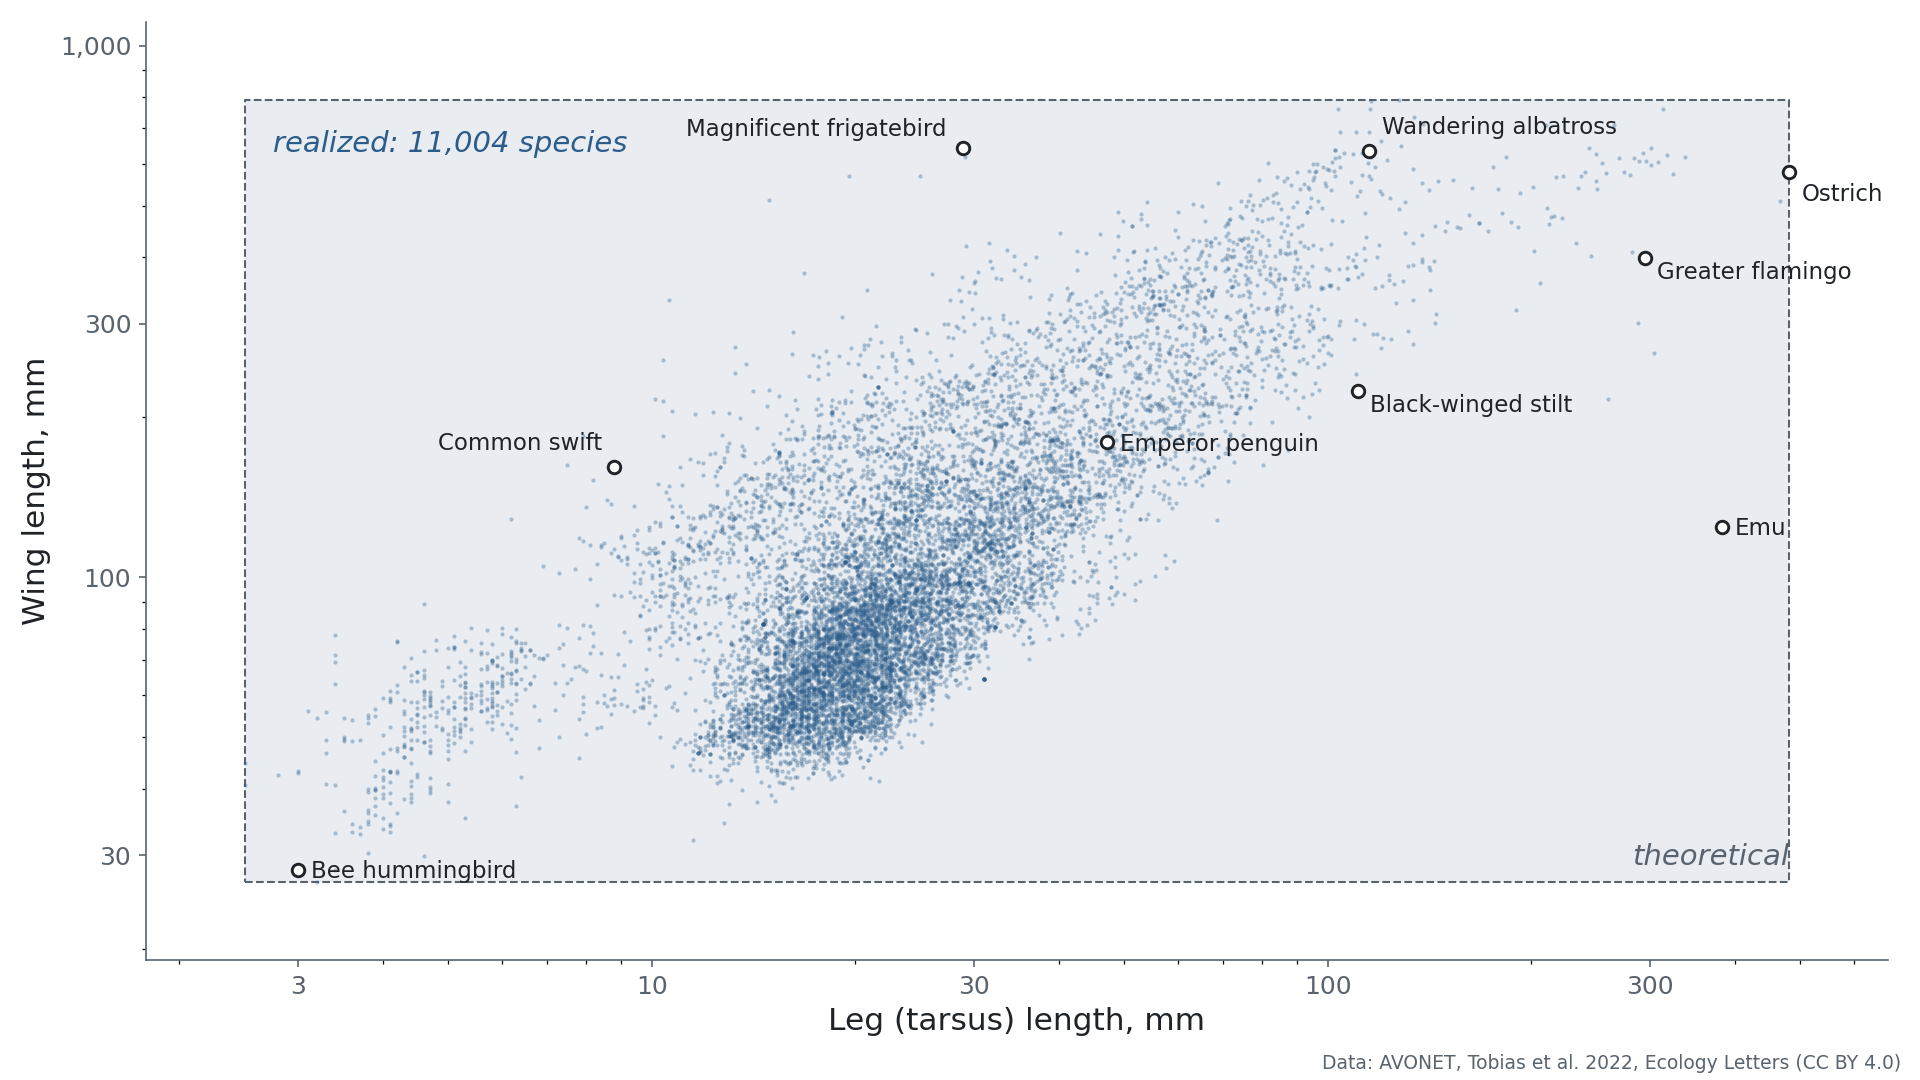
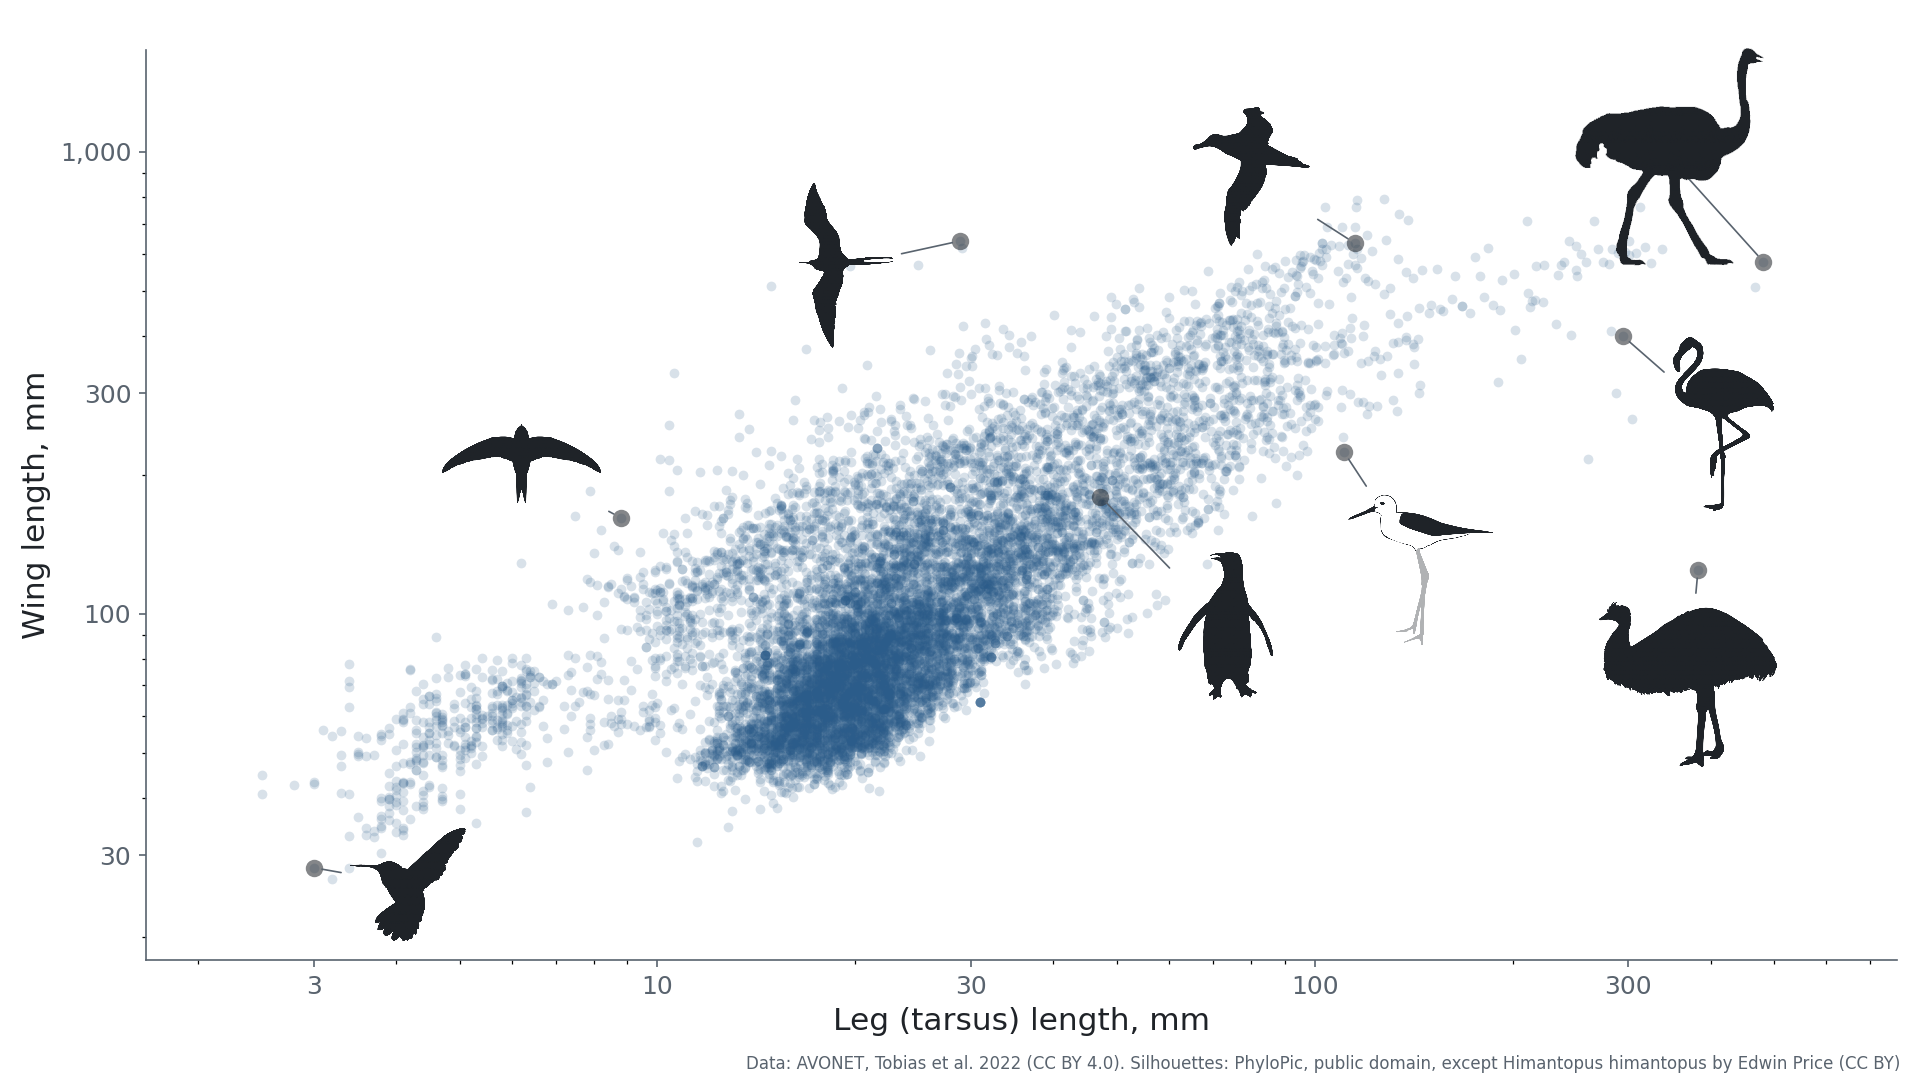
Bird morphospace: PhyloPic silhouettes in place of labels; no box; larger translucent points

diff --git a/scripts/make_bird_morphospace.py b/scripts/make_bird_morphospace.py
@@ -1,14 +1,19 @@
 """Wing length vs tarsus length for every bird in AVONET: realized vs theoretical morphospace.
 
 Reads data/clean/avonet_birds.csv (Tobias et al. 2022, CC BY 4.0).
-Writes export/bird_morphospace.png (labelled) and export/bird_morphospace_plain.png.
+Writes export/bird_morphospace.png (PhyloPic silhouettes; fetch them with
+scripts/fetch_phylopic_birds.py) and export/bird_morphospace_plain.png.
 Kiwis (Apteryx) are dropped: AVONET codes their wing as 0.1 mm.
 """
 import csv
+import json
 from pathlib import Path
 import matplotlib
 matplotlib.use("Agg")
 import matplotlib.pyplot as plt
+import numpy as np
+from matplotlib.offsetbox import AnnotationBbox, OffsetImage
+from PIL import Image
 
 REPO = Path(__file__).resolve().parent.parent
 rows = [r for r in csv.DictReader(open(REPO / "data/clean/avonet_birds.csv"))
@@ -17,29 +22,36 @@ W = [float(r["tarsus_length_mm"]) for r in rows]   # x: tarsus (leg)
 H = [float(r["wing_length_mm"]) for r in rows]     # y: wing
 by = {r["species"]: (float(r["tarsus_length_mm"]), float(r["wing_length_mm"])) for r in rows}
 
-LABELS = {
-    "Struthio camelus": ("Ostrich", (6, -14)),
-    "Dromaius novaehollandiae": ("Emu", (6, -4)),
-    "Diomedea exulans": ("Wandering albatross", (6, 8)),
-    "Fregata magnificens": ("Magnificent frigatebird", (-8, 6)),
-    "Mellisuga helenae": ("Bee hummingbird", (6, -4)),
-    "Apus apus": ("Common swift", (-6, 8)),
-    "Himantopus himantopus": ("Black-winged stilt", (6, -10)),
-    "Phoenicopterus roseus": ("Greater flamingo", (6, -10)),
-    "Aptenodytes forsteri": ("Emperor penguin", (6, -4)),
+# species: (silhouette file, offset of the silhouette from the point in points, height in points)
+SILS = {
+    "Struthio camelus": ("ostrich", (-45, 50), 50),
+    "Dromaius novaehollandiae": ("emu", (-5, -55), 38),
+    "Diomedea exulans": ("albatross", (-50, 32), 32),
+    "Fregata magnificens": ("frigatebird", (-55, -12), 38),
+    "Mellisuga helenae": ("hummingbird", (45, -8), 26),
+    "Apus apus": ("swift", (-48, 26), 18),
+    "Himantopus himantopus": ("stilt", (38, -58), 36),
+    "Phoenicopterus roseus": ("flamingo", (48, -42), 40),
+    "Aptenodytes forsteri": ("penguin", (60, -62), 34),
 }
+SIL_DIR = REPO / "export/base/phylopic"
+CREDITS = json.loads((SIL_DIR / "credits.json").read_text())
 
-INK, MUTED, DOT, BOX = "#1f2328", "#59636e", "#2b5c8a", "#e9edf2"
+INK, MUTED, DOT = "#1f2328", "#59636e", "#2b5c8a"
+DPI = 150
 
-def draw(path, labelled):
-    fig, ax = plt.subplots(figsize=(12.8, 7.2), dpi=150)
+def silhouette(slug, height_pt):
+    im = Image.open(SIL_DIR / f"{slug}.png").convert("LA")
+    a = np.asarray(im)[..., 1].astype(float) / 255
+    rgba = np.zeros(a.shape + (4,)); rgba[..., :3] = matplotlib.colors.to_rgb(INK); rgba[..., 3] = a
+    return OffsetImage(rgba, zoom=height_pt * DPI / 72 / a.shape[0])
+
+def draw(path, with_silhouettes):
+    fig, ax = plt.subplots(figsize=(12.8, 7.2), dpi=DPI)
     fig.patch.set_facecolor("white")
-    x0, x1, y0, y1 = min(W), max(W), min(H), max(H)
-    ax.fill_between([x0, x1], y0, y1, color=BOX, zorder=0, lw=0)
-    ax.plot([x0, x1, x1, x0, x0], [y0, y0, y1, y1, y0], color=MUTED, lw=1, ls="--", zorder=1)
-    ax.scatter(W, H, s=4, color=DOT, alpha=0.35, lw=0, zorder=2)
+    ax.scatter(W, H, s=22, color=DOT, alpha=0.18, lw=0, zorder=2)
     ax.set_xscale("log"); ax.set_yscale("log")
-    ax.set_xlim(x0 / 1.4, x1 * 1.4); ax.set_ylim(y0 / 1.4, y1 * 1.4)
+    ax.set_xlim(min(W) / 1.5, max(W) * 1.6); ax.set_ylim(min(H) / 1.5, max(H) * 2.1)
     ax.set_xlabel("Leg (tarsus) length, mm", fontsize=15, color=INK)
     ax.set_ylabel("Wing length, mm", fontsize=15, color=INK)
     from matplotlib.ticker import FixedLocator, NullFormatter
@@ -49,18 +61,18 @@ def draw(path, labelled):
     ax.tick_params(labelsize=12, colors=MUTED)
     for s in ("top", "right"): ax.spines[s].set_visible(False)
     for s in ("left", "bottom"): ax.spines[s].set_color(MUTED)
-    if labelled:
-        for sp, (name, off) in LABELS.items():
+    credit = "Data: AVONET, Tobias et al. 2022 (CC BY 4.0)"
+    if with_silhouettes:
+        for sp, (slug, off, h) in SILS.items():
             x, y = by[sp]
-            ax.scatter([x], [y], s=36, facecolor="white", edgecolor=INK, lw=1.4, zorder=3)
-            ha = "right" if off[0] < 0 else "left"
-            ax.annotate(name, (x, y), xytext=off, textcoords="offset points",
-                        fontsize=11, color=INK, ha=ha, zorder=4)
-        ax.text(x1, y0 * 1.08, "theoretical", fontsize=14, color=MUTED, ha="right", style="italic")
-        ax.text(x0 * 1.1, y1 / 1.25, f"realized: {len(rows):,} species", fontsize=14,
-                color=DOT, ha="left", style="italic")
-    fig.text(0.99, 0.01, "Data: AVONET, Tobias et al. 2022, Ecology Letters (CC BY 4.0)",
-             fontsize=9, color=MUTED, ha="right")
+            ax.scatter([x], [y], s=70, color=INK, alpha=0.55, lw=0, zorder=3)
+            ax.add_artist(AnnotationBbox(silhouette(slug, h), (x, y), xybox=off,
+                          boxcoords="offset points", frameon=False, zorder=4,
+                          arrowprops=dict(arrowstyle="-", color=MUTED, lw=0.8, shrinkA=0, shrinkB=4)))
+        by_lic = [f"{c['taxon']} by {c['contributor']} (CC BY)" for c in CREDITS.values()
+                  if "licenses/by/" in c["license"]]
+        credit += ". Silhouettes: PhyloPic, public domain" + (", except " + "; ".join(by_lic) if by_lic else "")
+    fig.text(0.99, 0.01, credit, fontsize=8, color=MUTED, ha="right")
     fig.tight_layout(rect=(0, 0.02, 1, 1))
     fig.savefig(path, facecolor="white"); plt.close(fig)
 

diff --git a/scripts/fetch_phylopic_birds.py b/scripts/fetch_phylopic_birds.py
@@ -1,0 +1,51 @@
+"""Download public-domain (CC0 / PDM) PhyloPic silhouettes for the bird morphospace figure.
+
+Writes export/base/phylopic/<slug>.png and credits.json (contributor, licence, image id).
+Tries the species name first, then each fallback name in turn; CC BY only if no
+public-domain image exists for any of the names (attribution then goes on the figure).
+"""
+import json, subprocess, urllib.parse
+from pathlib import Path
+
+OUT = Path(__file__).resolve().parent.parent / "export/base/phylopic"
+API = "https://api.phylopic.org"
+OK = ("publicdomain/zero", "publicdomain/mark")
+BY = ("licenses/by/",)   # last resort; never -nc or -sa
+WANT = {
+    "ostrich": ["Struthio camelus", "Struthio"],
+    "emu": ["Dromaius novaehollandiae", "Dromaius"],
+    "albatross": ["Diomedea exulans", "Diomedea"],
+    "frigatebird": ["Fregata magnificens", "Fregata"],
+    "hummingbird": ["Mellisuga helenae", "Mellisuga", "Trochilidae"],
+    "swift": ["Apus apus", "Apus", "Apodidae"],
+    "stilt": ["Himantopus himantopus", "Himantopus", "Recurvirostridae"],
+    "flamingo": ["Phoenicopterus roseus", "Phoenicopterus", "Phoenicopteridae"],
+    "penguin": ["Aptenodytes forsteri", "Aptenodytes", "Spheniscidae"],
+}
+
+def get(url):
+    return subprocess.run(["curl", "-sfL", "-A", "course-figure-script", url],
+                          check=True, capture_output=True).stdout
+
+build = json.loads(subprocess.run(["curl", "-s", f"{API}/images?build=x"], capture_output=True).stdout)["build"]
+OUT.mkdir(parents=True, exist_ok=True)
+credits = {}
+for slug, names in WANT.items():
+  for licences in (OK, BY):
+    if slug in credits: break
+    for name in names:
+        q = urllib.parse.quote(name.lower())
+        d = json.loads(get(f"{API}/images?build={build}&filter_name={q}&embed_items=true&page=0"))
+        items = d.get("_embedded", {}).get("items", [])
+        pick = next((it for it in items if any(k in it["_links"]["license"]["href"] for k in licences)), None)
+        if pick:
+            L = pick["_links"]
+            png = max(L["rasterFiles"], key=lambda f: int(f["sizes"].split("x")[0]) if int(f["sizes"].split("x")[0]) <= 1024 else 0)
+            (OUT / f"{slug}.png").write_bytes(get(png["href"]))
+            credits[slug] = {"taxon": L["specificNode"]["title"], "searched": name,
+                             "contributor": pick.get("attribution") or L["contributor"]["title"],
+                             "license": L["license"]["href"], "image": L["self"]["href"]}
+            print(slug, "->", credits[slug]["taxon"], "|", credits[slug]["contributor"])
+            break
+  if slug not in credits: print(slug, "NONE")
+(OUT / "credits.json").write_text(json.dumps(credits, indent=1))

diff --git a/export/README.md b/export/README.md
@@ -21,8 +21,12 @@ Dunn-Fletcher et al. 2018 (THE1B and CRH); syncytin-1 is ERVW-1, syncytin-2 is E
 
 # Bird morphospace
 
-`bird_morphospace.png` (labelled) and `bird_morphospace_plain.png`: wing length against
-tarsus length, log axes, for 11,004 species in AVONET (Tobias et al. 2022, CC BY 4.0).
-The shaded box spans the observed range on each axis (theoretical); the dots are the
-species that exist (realized). Kiwis are left out: AVONET codes their wing as 0.1 mm.
-Rebuild with `python3 scripts/make_bird_morphospace.py`.
+`bird_morphospace.png`: wing length against tarsus length, log axes, for 11,004 species in
+AVONET (Tobias et al. 2022, CC BY 4.0), with PhyloPic silhouettes beside nine species
+(ostrich, emu, albatross, frigatebird, bee hummingbird, swift, stilt, flamingo, emperor
+penguin). `bird_morphospace_plain.png`: the dots alone. Kiwis are left out: AVONET codes
+their wing as 0.1 mm.
+
+Silhouettes are in `base/phylopic/` with `credits.json`. All are public domain except the
+stilt (Edwin Price, CC BY 4.0), credited at the foot of the figure.
+Rebuild: `python3 -I scripts/fetch_phylopic_birds.py`, then `python3 scripts/make_bird_morphospace.py`.
